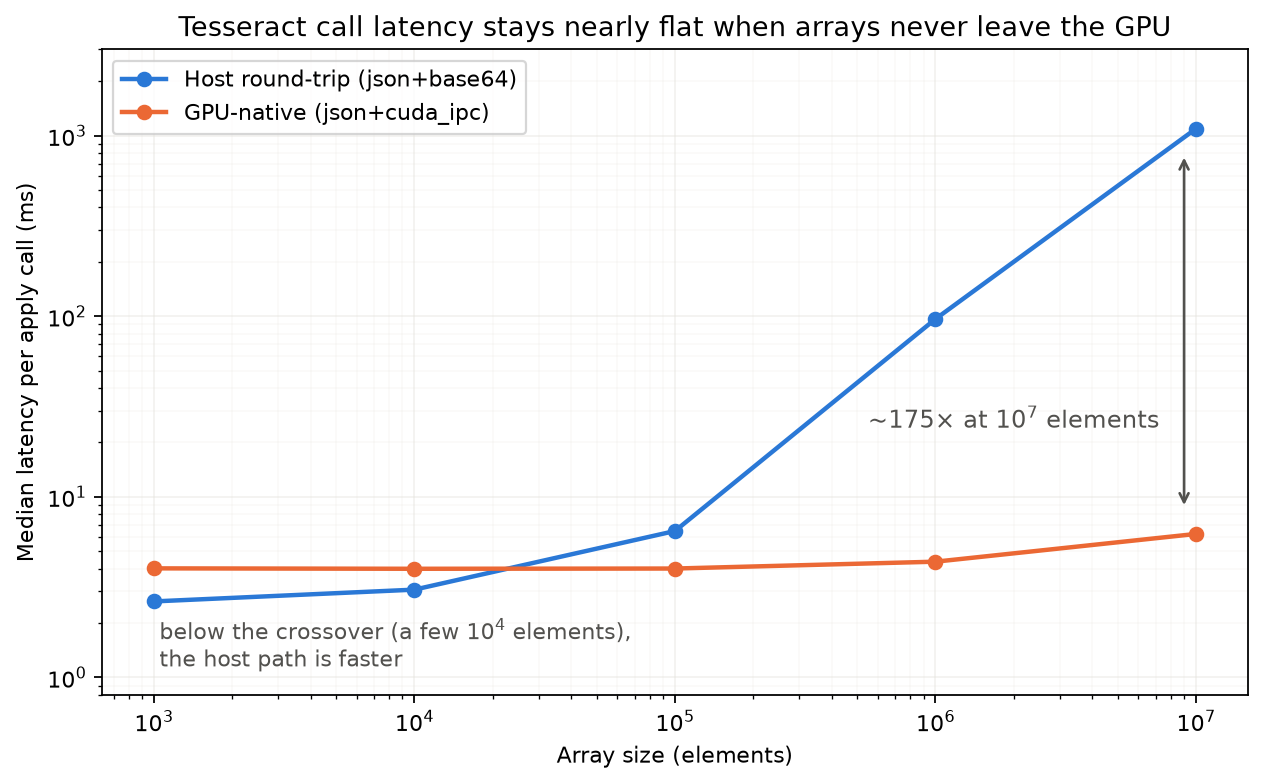
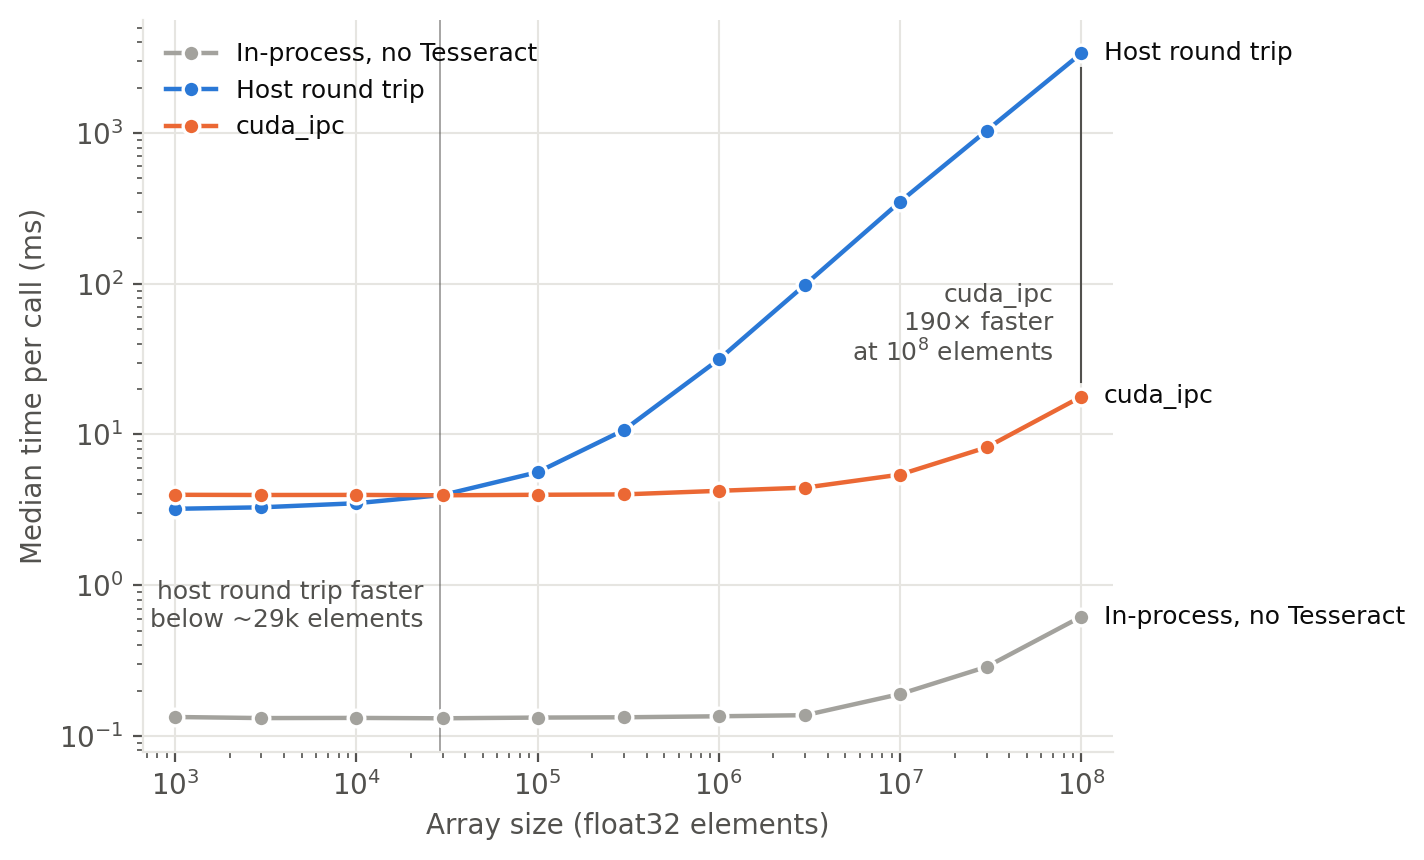
doc: add array-size benchmark figure and script to the GPU interop post
Regenerate gpu-ipc-benchmark.png with tesseract-core 1.15 and tesseract-jax
0.5, show it in the post, and ship the script that draws it as a download.

diff --git a/docs/downloads/gpu-ipc-benchmark.py b/docs/downloads/gpu-ipc-benchmark.py
@@ -1,0 +1,302 @@
+"""Times one jitted apply_tesseract call on arrays of increasing size, through the host and with cuda_ipc.
+
+Draws the array-size figure in the blog post "jax.grad across a process boundary,
+without leaving the GPU". Needs a CUDA GPU and
+
+    pip install tesseract-core[runtime] tesseract-jax "jax[cuda13]" equinox matplotlib
+
+    python gpu-ipc-benchmark.py --plot gpu-ipc-benchmark.png
+
+The Tesseract below only doubles its input, so the times are the cost of the call
+itself. Each setup runs in its own fresh processes, which time every array size in
+turn after a few warm-up calls. The table reports the median over processes of each
+process's median call time.
+
+Setups:
+  in-process   the same doubling, jitted in this process (no Tesseract)
+  host         Tesseract served by Tesseract.from_source, arrays through host memory
+  cuda_ipc     same, arrays passed as CUDA IPC handles
+"""
+
+import os
+
+# The client and the Tesseract share one GPU, so neither JAX process should
+# claim 75% of its memory at startup (from_source passes this on to the Tesseract).
+os.environ["XLA_PYTHON_CLIENT_PREALLOCATE"] = "false"
+
+import argparse
+import json
+import math
+import statistics
+import subprocess
+import sys
+import tempfile
+import time
+from importlib.metadata import version
+from pathlib import Path
+
+SETUPS = ("in-process", "host", "cuda_ipc")
+SIZES = [int(m * 10**e) for e in range(3, 8) for m in (1, 3)] + [10**8]
+
+TESSERACT_API = """
+import equinox as eqx
+from pydantic import BaseModel
+
+from tesseract_core.runtime import Array, Differentiable, Float32
+from tesseract_core.runtime.jax_recipes import jax_abstract_eval, jax_apply
+
+
+class InputSchema(BaseModel):
+    x: Differentiable[Array[(None,), Float32]]
+
+
+class OutputSchema(BaseModel):
+    y: Differentiable[Array[(None,), Float32]]
+
+
+@eqx.filter_jit
+def apply_jit(inputs: dict) -> dict:
+    return {"y": 2 * inputs["x"]}
+
+
+def apply(inputs: InputSchema) -> OutputSchema:
+    return OutputSchema(**jax_apply(apply_jit, inputs))
+
+
+def abstract_eval(abstract_inputs):
+    return jax_abstract_eval(apply_jit, abstract_inputs)
+"""
+
+
+def time_calls(f, x, warmup=3, min_calls=15, min_seconds=0.5, max_calls=300):
+    """Median wall time of f(x) in ms, over at least min_calls calls and min_seconds."""
+    for _ in range(warmup):
+        f(x).block_until_ready()
+    times, start = [], time.perf_counter()
+    while len(times) < max_calls and (
+        len(times) < min_calls or time.perf_counter() - start < min_seconds
+    ):
+        t0 = time.perf_counter()
+        f(x).block_until_ready()
+        times.append(time.perf_counter() - t0)
+    return statistics.median(times) * 1e3
+
+
+def run_one(setup, api_path):
+    """Time every size for one setup in this process; print a JSON line."""
+    import jax
+    import jax.numpy as jnp
+    from tesseract_jax import apply_tesseract
+
+    from tesseract_core import Tesseract
+
+    def sweep(f):
+        return {
+            n: time_calls(
+                f, jax.random.uniform(jax.random.PRNGKey(n), (n,), dtype=jnp.float32)
+            )
+            for n in SIZES
+        }
+
+    if setup == "in-process":
+        ms = sweep(jax.jit(lambda x: 2 * x))
+    else:
+        with Tesseract.from_source(
+            api_path, python_executable=sys.executable, gpu_transport="cuda_ipc"
+        ) as tess:
+            # Asking for gpu_transport="none" makes every call copy through the host.
+            if setup == "host":
+                tess = tess.with_encoding(gpu_transport="none")
+            ms = sweep(jax.jit(lambda x: apply_tesseract(tess, {"x": x})["y"]))
+    print(
+        json.dumps(
+            {
+                "ms": ms,
+                "gpu": jax.devices()[0].device_kind,
+                "versions": {
+                    p: version(p) for p in ("jax", "tesseract-core", "tesseract-jax")
+                },
+            }
+        )
+    )
+
+
+def plot(medians, path):
+    """Draw median call time against array size, one line per setup."""
+    import matplotlib.pyplot as plt
+
+    ink, ink_muted, grid = "#0b0b0b", "#52514e", "#e6e5e1"
+    style = {
+        "host": ("#2a78d6", "Host round trip"),
+        "cuda_ipc": ("#eb6834", "cuda_ipc"),
+        "in-process": ("#a3a29d", "In-process, no Tesseract"),
+    }
+    plt.rcParams.update(
+        {
+            "font.size": 10,
+            "text.color": ink,
+            "axes.labelcolor": ink_muted,
+            "xtick.color": ink_muted,
+            "ytick.color": ink_muted,
+        }
+    )
+    fig, ax = plt.subplots(figsize=(7.2, 4.4), dpi=200)
+    for side in ("top", "right"):
+        ax.spines[side].set_visible(False)
+    for side in ("left", "bottom"):
+        ax.spines[side].set_color(grid)
+    ax.grid(True, which="major", color=grid, linewidth=0.75)
+    ax.set_axisbelow(True)
+    ax.set_xscale("log")
+    ax.set_yscale("log")
+
+    med = {s: [medians[s][n] for n in SIZES] for s in medians}
+    for setup in ("in-process", "host", "cuda_ipc"):
+        color, label = style[setup]
+        ax.plot(
+            SIZES,
+            med[setup],
+            color=color,
+            linewidth=1.6,
+            marker="o",
+            markersize=6,
+            markeredgecolor="white",
+            markeredgewidth=1.2,
+            label=label,
+            zorder=3,
+        )
+        ax.annotate(
+            label,
+            (SIZES[-1], med[setup][-1]),
+            xytext=(8, 0),
+            textcoords="offset points",
+            va="center",
+            fontsize=9,
+            color=ink,
+        )
+
+    # Where the two Tesseract paths cross, interpolated in log-log space.
+    for i in range(len(SIZES) - 1):
+        d0 = math.log(med["host"][i]) - math.log(med["cuda_ipc"][i])
+        d1 = math.log(med["host"][i + 1]) - math.log(med["cuda_ipc"][i + 1])
+        if d0 <= 0 < d1:
+            t = d0 / (d0 - d1)
+            cross = math.exp(
+                math.log(SIZES[i]) + t * (math.log(SIZES[i + 1]) - math.log(SIZES[i]))
+            )
+            ax.axvline(cross, color=ink_muted, linewidth=0.6, alpha=0.6, zorder=1)
+            ax.annotate(
+                f"host round trip faster\nbelow ~{cross / 1e3:.0f}k elements",
+                (cross, math.sqrt(med["in-process"][0] * med["cuda_ipc"][0])),
+                xytext=(-6, 0),
+                textcoords="offset points",
+                ha="right",
+                va="center",
+                fontsize=9,
+                color=ink_muted,
+            )
+            break
+
+    ratio = med["host"][-1] / med["cuda_ipc"][-1]
+    ax.annotate(
+        f"cuda_ipc\n{ratio:.0f}\N{MULTIPLICATION SIGN} faster\nat 10$^{{{round(math.log10(SIZES[-1]))}}}$ elements",
+        (SIZES[-1], med["cuda_ipc"][-1] * 3),
+        xytext=(-10, 0),
+        textcoords="offset points",
+        ha="right",
+        va="center",
+        fontsize=9,
+        color=ink_muted,
+    )
+    ax.plot(
+        [SIZES[-1]] * 2,
+        [med["cuda_ipc"][-1] * 1.25, med["host"][-1] / 1.25],
+        color=ink_muted,
+        linewidth=0.75,
+        zorder=2,
+    )
+
+    ax.set_xlabel("Array size (float32 elements)")
+    ax.set_ylabel("Median time per call (ms)")
+    ax.set_xlim(SIZES[0] / 1.5, SIZES[-1] * 1.5)
+    ax.legend(frameon=False, loc="upper left", fontsize=9, labelcolor=ink)
+    fig.tight_layout()
+    fig.savefig(path, facecolor="white", bbox_inches="tight")
+
+
+def measure(processes):
+    """Run every setup in `processes` fresh processes each; return per-size medians and metadata."""
+    runs = {}
+    with tempfile.TemporaryDirectory() as tmp:
+        api_path = Path(tmp) / "tesseract_api.py"
+        api_path.write_text(TESSERACT_API)
+        # Interleave the setups, so slow drift on the machine affects them all alike.
+        for _ in range(processes):
+            for setup in SETUPS:
+                out = subprocess.run(
+                    [sys.executable, __file__, "--run", setup, "--api", str(api_path)],
+                    capture_output=True,
+                    check=False,
+                    text=True,
+                )
+                if out.returncode != 0:
+                    sys.exit(f"{setup} failed:\n{out.stderr}")
+                runs.setdefault(setup, []).append(
+                    json.loads(out.stdout.strip().splitlines()[-1])
+                )
+    medians = {
+        s: {n: statistics.median(r["ms"][str(n)] for r in rs) for n in SIZES}
+        for s, rs in runs.items()
+    }
+    first = runs[SETUPS[0]][0]
+    return medians, {
+        "gpu": first["gpu"],
+        "versions": first["versions"],
+        "processes": processes,
+    }
+
+
+def main():
+    parser = argparse.ArgumentParser(description=__doc__.split("\n\n")[0])
+    parser.add_argument("--processes", type=int, default=3)
+    parser.add_argument("--json", type=Path, help="write the medians here")
+    parser.add_argument("--plot", type=Path, help="draw the figure here")
+    parser.add_argument(
+        "--from-json", type=Path, help="plot saved medians instead of measuring"
+    )
+    parser.add_argument("--run", choices=SETUPS, help=argparse.SUPPRESS)
+    parser.add_argument("--api", help=argparse.SUPPRESS)
+    args = parser.parse_args()
+
+    if args.run:
+        run_one(args.run, args.api)
+        return
+
+    if args.from_json:
+        saved = json.loads(args.from_json.read_text())
+        medians = {
+            s: {int(n): v for n, v in d.items()} for s, d in saved["medians"].items()
+        }
+        meta = {k: v for k, v in saved.items() if k != "medians"}
+    else:
+        medians, meta = measure(args.processes)
+        if args.json:
+            args.json.write_text(json.dumps({**meta, "medians": medians}, indent=1))
+
+    print(
+        f"GPU: {meta['gpu']}, "
+        + ", ".join(f"{p} {v}" for p, v in meta["versions"].items())
+    )
+    print(f"{meta['processes']} processes per setup\n")
+    print(
+        f"{'elements':>10s}" + "".join(f"{s:>12s}" for s in SETUPS) + "   host/cuda_ipc"
+    )
+    for n in SIZES:
+        row = "".join(f"{medians[s][n]:12.3f}" for s in SETUPS)
+        print(f"{n:>10d}{row}   {medians['host'][n] / medians['cuda_ipc'][n]:13.1f}")
+    if args.plot:
+        plot(medians, args.plot)
+
+
+if __name__ == "__main__":
+    main()

diff --git a/docs/blog/2026-08-17-gpu-native-interop.md b/docs/blog/2026-08-17-gpu-native-interop.md
@@ -67,6 +67,14 @@ Removing the host round trip closes about a third of the gap to the single-proce
 
 What remains, about 20 ms per step, is almost all fixed cost. A Tesseract with the same inputs and outputs that computes nothing costs about 16 ms per step this way, against under a millisecond in-process. Roughly 5 ms of that goes to the two HTTP requests and their validation, 7 ms to exchanging handles and copying arrays on both sides, and 4 ms to the JAX recipe's endpoints, which adopt the inputs, key the VJP cache, and launch the forward and backward programs. Compute adds only a few milliseconds on balance. Running the forward pass and the VJP as two separate XLA programs costs about 10 ms more than the single program XLA builds when it sees both at once, but the Tesseract's version of the rollout compiles to a faster program than the team's direct code, which offsets most of that. The fixed cost is roughly constant per call, so it matters less the more work the solver does per call. Here each call runs an entire 300-step rollout, which is about as coarse as calls get.
 
+With `cuda_ipc`, the size of the arrays matters much less. The figure below times a single call to a Tesseract that only doubles its input. Through the host, the call takes longer in proportion to the array, up to 3.4 s for a hundred million float32 values. With `cuda_ipc`, it stays near 4 ms up to a few million elements and reaches 18 ms at a hundred million, 190 times faster than the host path. At small sizes, almost all of those 4 ms are per-call overhead, since the same doubling takes about a tenth of a millisecond in-process. Below about 30,000 elements, the host round trip is still the faster of the two.
+
+```{figure} ../static/blog/gpu-ipc-benchmark.png
+:alt: "Log-log plot of median time per call against array size, from 1,000 to 100 million float32 elements. The host round trip rises from about 3 ms to about 3.4 s. cuda_ipc stays near 4 ms up to a few million elements and rises to about 18 ms at 100 million, 190 times faster than the host round trip. The host round trip is faster below about 30,000 elements. The same computation in-process takes between 0.13 and 0.6 ms."
+
+Median time of one jitted `apply_tesseract` call to a Tesseract that doubles a float32 vector, on an NVIDIA A100 80GB, over five fresh processes per setup. The {download}`benchmark script </downloads/gpu-ipc-benchmark.py>` reproduces the figure.
+```
+
 ## Why would you ever do that
 
 The pipeline above has JAX on both sides of a process boundary, and nobody should build that on purpose. If both halves are JAX, you own both, and they can share an environment, import the solver. The Multi-Agent-DPC team came to the same conclusion. [CINOC](https://github.com/SOLARIS-JHU/CINOC), the ICML 2026 paper that grew out of the project, imports its solvers directly, which is the right call for two JAX components with the same authors.

diff --git a/docs/content/how-to/gpu-transport.md b/docs/content/how-to/gpu-transport.md
@@ -313,7 +313,7 @@ line).
   memory by default (set `TESSERACT_CUDA_IPC_POOL_FRACTION` to change it).
 - **A fixed cost per call.** Each call still pays for an HTTP request and
   validation, and for exchanging handles on both sides, several milliseconds in
-  total. For small arrays, the host round trip can be faster. See
+  total. For small arrays, below about 30,000 float32 elements in our measurements, the host round trip can be faster. See
   {doc}`/content/concepts/performance`.
 
 ## Troubleshooting
